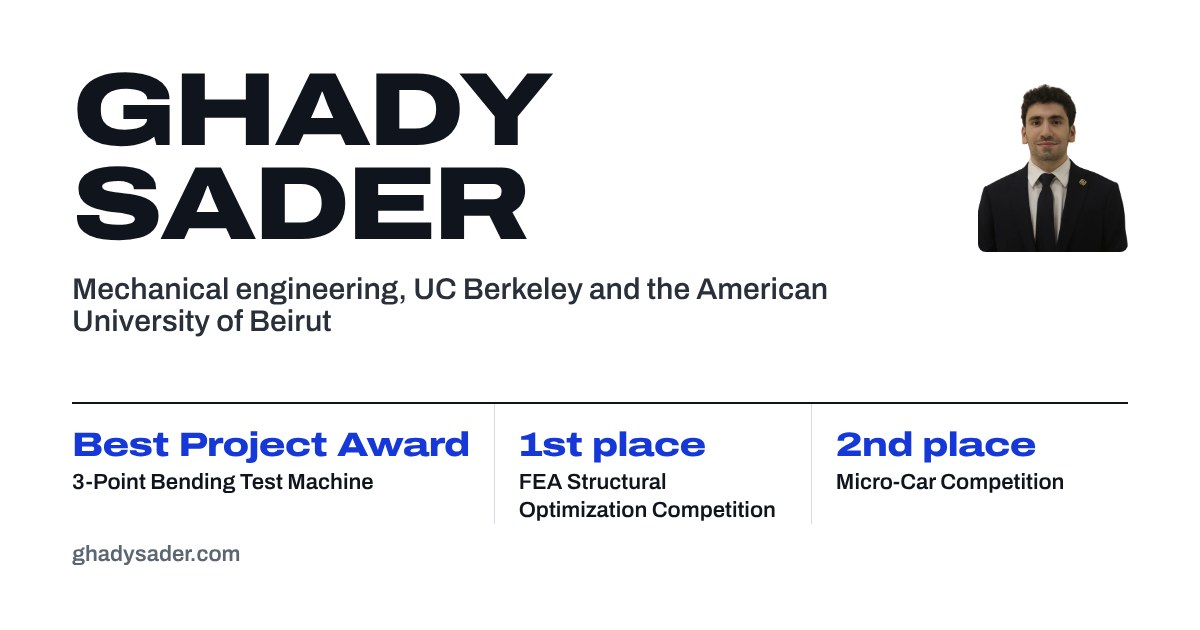
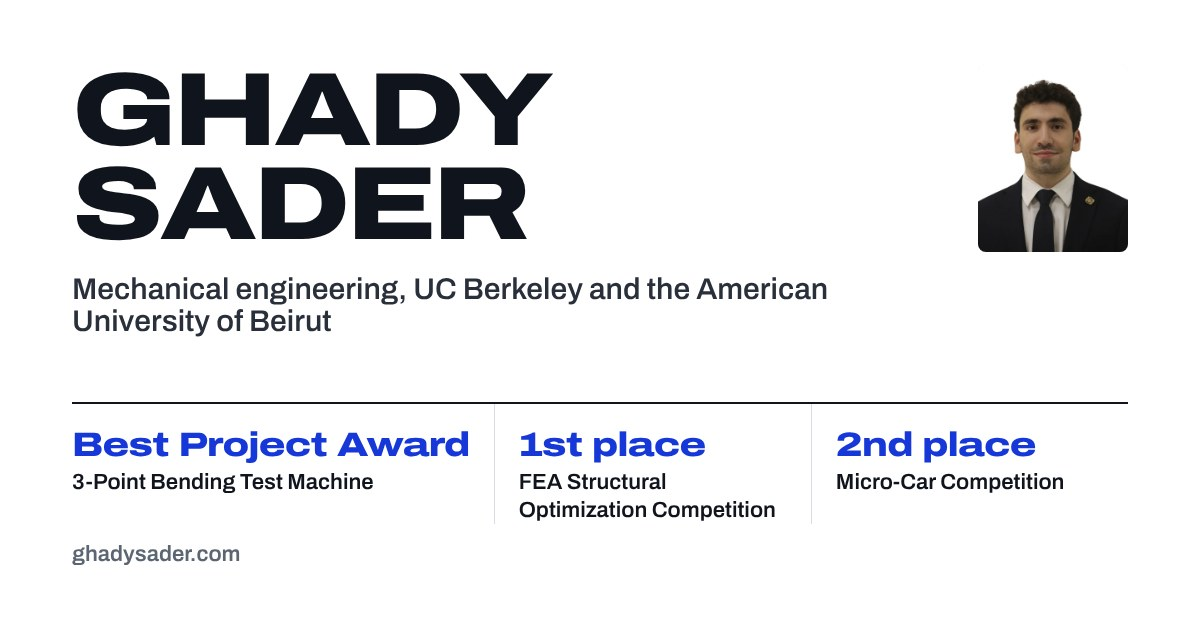
Intro wording, more space above the name, refreshed share card
Claude-Session: https://claude.ai/code/session_013CGJAf82PmcXH2Cu8HJX8s

Changed region(s): [[0.8017, 0.1206, 0.9558, 0.3921]]

diff --git a/index.html b/index.html
@@ -71,7 +71,7 @@ body.at-hero .brand{opacity:0;pointer-events:none}
 @media (max-width:560px){.nav a.opt{display:none}.nav{gap:13px}.nav a{font-size:.9rem}.brand{font-size:.95rem}}
 
 /* hero */
-.hero{padding-top:clamp(84px,10vh,120px);padding-bottom:clamp(36px,6vh,72px)}
+.hero{padding-top:clamp(108px,14vh,152px);padding-bottom:clamp(36px,6vh,72px)}
 .h-grid{display:grid;grid-template-columns:minmax(0,5fr) minmax(0,7fr);gap:clamp(28px,4.5vw,76px);align-items:stretch}
 .h-id{display:flex;flex-direction:column}
 .h-name{font-family:var(--display);font-stretch:125%;font-weight:840;font-size:clamp(3rem,7.4vw,7.2rem);line-height:.88;letter-spacing:-.04em;margin:0;text-transform:uppercase}
@@ -420,7 +420,7 @@ dialog.zoom button{font:inherit;font-weight:620;color:#fff;background:transparen
       <div class="h-id">
         <h1 class="h-name" id="name">Ghady<br>Sader</h1>
         <p class="h-lead">Mechanical engineering, UC Berkeley and the American University of Beirut</p>
-        <p class="h-about">I design and build machines, and most of the ones on this page were built to compete. I interned at <a href="#experience">VMT GmbH (Herrenknecht Group)</a> in Germany on navigation systems for tunnel boring machines, and with the <a href="#born-global">Born Global Foundation</a> (based in Portland, Maine) on coatings for solar panels. I also founded the <a href="#honor-society">AUB Honor Society</a>, which has 1,877 members.</p>
+        <p class="h-about">I design and build machines, and most of the ones on this page were built to compete. I interned at <a href="#experience">VMT GmbH (Herrenknecht Group)</a> in Germany on navigation systems for tunnel boring machines, and with the <a href="#born-global">Born Global Foundation</a> (based in Portland, Maine) on coatings for solar panels. I also founded the <a href="#honor-society">AUB Honor Society</a>, which has 1,877 members and is the largest student society in AUB's history.</p>
       </div>
       <figure class="h-photo"><img src="media/headshot-top.webp" alt="Portrait of Ghady Sader" width="720" height="900"></figure>
     </div>
